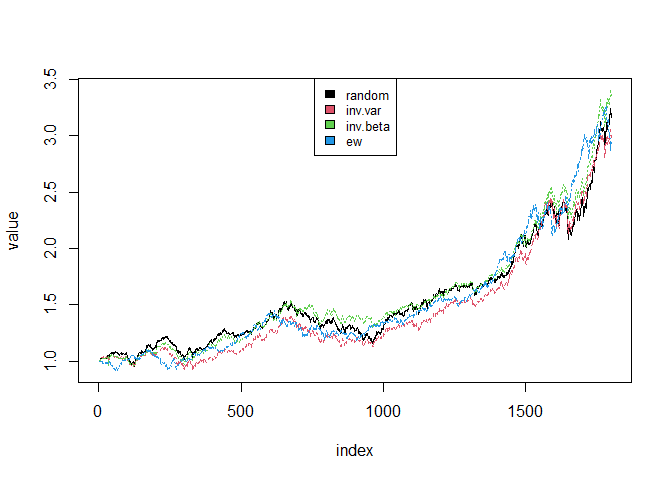
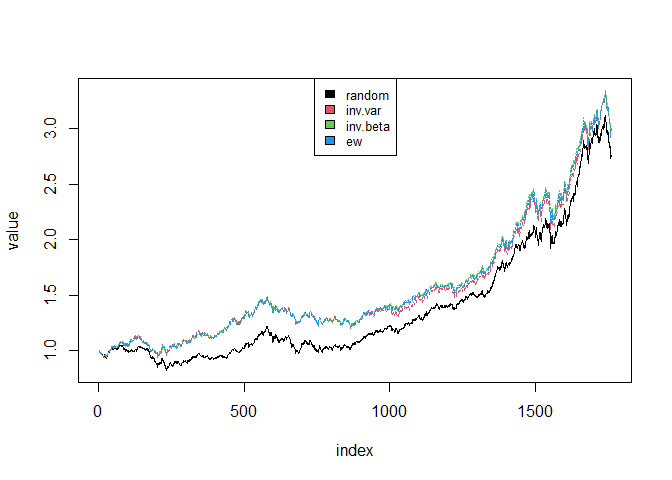
changed some logic with the sliding windows so the last window goes to the end

diff --git a/portfoliopy.py b/portfoliopy.py
@@ -39,7 +39,7 @@ def portfoliosreturns(ww, sreturns, rf=None,port_type="bah",kk=2):
   else:
     nn=len(sreturns.index)
     BB = np.arange(0,nn,kk)
-    BB = np.append(BB,nn+1)
+    BB = np.append(BB,nn)
     sreturns_p_a = pd.Series()
     for ii in range(1,len(BB)):
       sreturns_p_ii=pd.Series(portfoliosreturns(ww,sreturns.iloc[BB[ii-1]:BB[ii],:],rf,"bah"))
@@ -59,18 +59,20 @@ forward=3,kk=2,window_type="tumbling",args=None):
     
   nn=len(sreturns.index)
   if window_type=="tumbling":
-    starts = np.arange(0,nn,forward)
+    starts = np.arange(0,nn-forward,forward)
   else:
-    starts = np.repeat(0,len(np.arange(0,nn,forward)))
+    starts = np.repeat(0,len(np.arange(0,nn-forward,forward)))
 
-  ends = np.arange(back,nn,forward)
-  ends = np.append(ends,nn)
-  
+  ends = starts+back
+
   sreturns_p_a = pd.Series()
-  for ii in range(0,len(starts)-1):
+  for ii in range(0,len(starts)):
     sreturns_in=sreturns.iloc[starts[ii]:ends[ii],:]
     ww_ii=strategy(sreturns_in,args)
-    sreturns_out=sreturns.iloc[ends[ii]:np.minimum((ends[ii]+forward),nn),:]
+    if ii == len(starts)-1:
+      sreturns_out=sreturns.iloc[ends[ii]:nn,:]
+    else: 
+      sreturns_out=sreturns.iloc[ends[ii]:ends[ii]+forward,:]
     sreturns_p_out=pd.Series(portfoliosreturns(ww_ii,sreturns_out,rf,port_type,kk))
     sreturns_p_a=sreturns_p_a.append(sreturns_p_out)
   
@@ -109,28 +111,28 @@ def inv_B_strategy(sreturns,args=None):
   ww=ww/sum(ww)
   return ww
 
-#tests
-x = pd.DataFrame([[1, 6,11],
-              [2, 7,12],
-              [3, 8,13],
-               [4, 9,14],
-               [5, 10,15],
-               [3, 20,7],
-               [2, 3,8],
-               [2, 7,12],
-               [2, 7,13]])
-prices2sreturns(x)
-r=pd.Series([0.5, 0.5, 0.1,-0.5])
-sreturns2wealth(r,1.0)
-np.all(np.isclose(sreturns2wealth(prices2sreturns(r),r[0]),r))
-rs=prices2sreturns(x)
-equal_weights_portfolio(rs)
-equal_weights_portfolio(rs,port_type="bah")
-equal_weights_portfolio(rs,port_type="scr")
-random_strategy(rs,2)
-backtest_strategy(strategy = random_strategy, sreturns = rs,forward=4,args=2)
-backtest_strategy(strategy = inv_V_strategy, sreturns = rs,forward=4,args=None)
-backtest_strategy(strategy = inv_B_strategy, sreturns = rs,forward=4,args=None)
+# #tests
+# x = pd.DataFrame([[1, 6,11],
+#               [2, 7,12],
+#               [3, 8,13],
+#                [4, 9,14],
+#                [5, 10,15],
+#                [3, 20,7],
+#                [2, 3,8],
+#                [2, 7,12],
+#                [2, 7,13]])
+# prices2sreturns(x)
+# r=pd.Series([0.5, 0.5, 0.1,-0.5])
+# sreturns2wealth(r,1.0)
+# np.all(np.isclose(sreturns2wealth(prices2sreturns(r),r[0]),r))
+# rs=prices2sreturns(x)
+# equal_weights_portfolio(rs)
+# equal_weights_portfolio(rs,port_type="bah")
+# equal_weights_portfolio(rs,port_type="scr")
+# random_strategy(rs,2)
+# backtest_strategy(strategy = random_strategy, sreturns = rs,args=2)
+# backtest_strategy(strategy = inv_V_strategy, sreturns = rs,args=None)
+# backtest_strategy(strategy = inv_B_strategy, sreturns = rs,args=None)
 
 
 

diff --git a/README.md b/README.md
@@ -2,7 +2,9 @@ portfoliopy.py
 ================
 
 ## Set up and data
-tl;dr made functions which calculate portfolio returns and backtests portfolio strategies.   
+
+tl;dr made functions which calculate portfolio returns and backtests
+portfolio strategies.
 
 I tested the Python functions in R using the reticulate library. First I
 load the necessary libraries and sources, and then the data I will be
@@ -27,20 +29,22 @@ legend("top", colnames(prices),col=seq_len(ncol(prices)),cex=0.8,fill=seq_len(nc
 ## Testing the portfolio functions with the included portfolio functions
 
 Note that when using reticulate, to pass integers to Python functions,
-we have to specify “as.integer(x)”.
+we have to specify “as.integer(x)”. For these backtests, the strategies
+are formed by looking backwards over 100 days and then holding for 100
+days before recomputing.
 
 ``` r
 sr<-prices2sreturns(prices)
 ew.sr<-equal_weights_portfolio(sr)
 ew.w<-sreturns2wealth(ew.sr)
 
-rand.sr<-backtest_strategy(random_strategy,sr,forward=as.integer(100),args=as.integer(2))
+rand.sr<-backtest_strategy(random_strategy,sr,back=as.integer(100),forward=as.integer(100),args=as.integer(2))
 rand.w<-sreturns2wealth(rand.sr)
 
-inv.var.sr<-backtest_strategy(inv_V_strategy,sr,forward=as.integer(100),args=NULL)
+inv.var.sr<-backtest_strategy(inv_V_strategy,sr,back=as.integer(100),forward=as.integer(100),args=NULL)
 inv.var.w<-sreturns2wealth(inv.var.sr)
 
-inv.beta.sr<-backtest_strategy(inv_B_strategy,sr,forward=as.integer(100),args=NULL)
+inv.beta.sr<-backtest_strategy(inv_B_strategy,sr,back=as.integer(100),forward=as.integer(100),args=NULL)
 inv.beta.w<-sreturns2wealth(inv.beta.sr)
 
 ports<-cbind(random=rand.w,inv.var=inv.var.w,inv.beta=inv.beta.w,
@@ -52,4 +56,7 @@ legend("top", colnames(ports),col=seq_len(ncol(ports)),cex=0.8,fill=seq_len(ncol
 
 ![](README_files/figure-gfm/pressure-1.png)<!-- -->
 
-They all perform about the same (although the random portfolios obviously sometimes do better or worse). There is lots of room for more tests with more assets, over longer time periods, and more sophisticated strategies.
+They all perform pretty much identically (although the random portfolios
+obviously sometimes do better or worse). There is lots of room for more
+tests with more assets, over longer time periods, and more sophisticated
+strategies.
